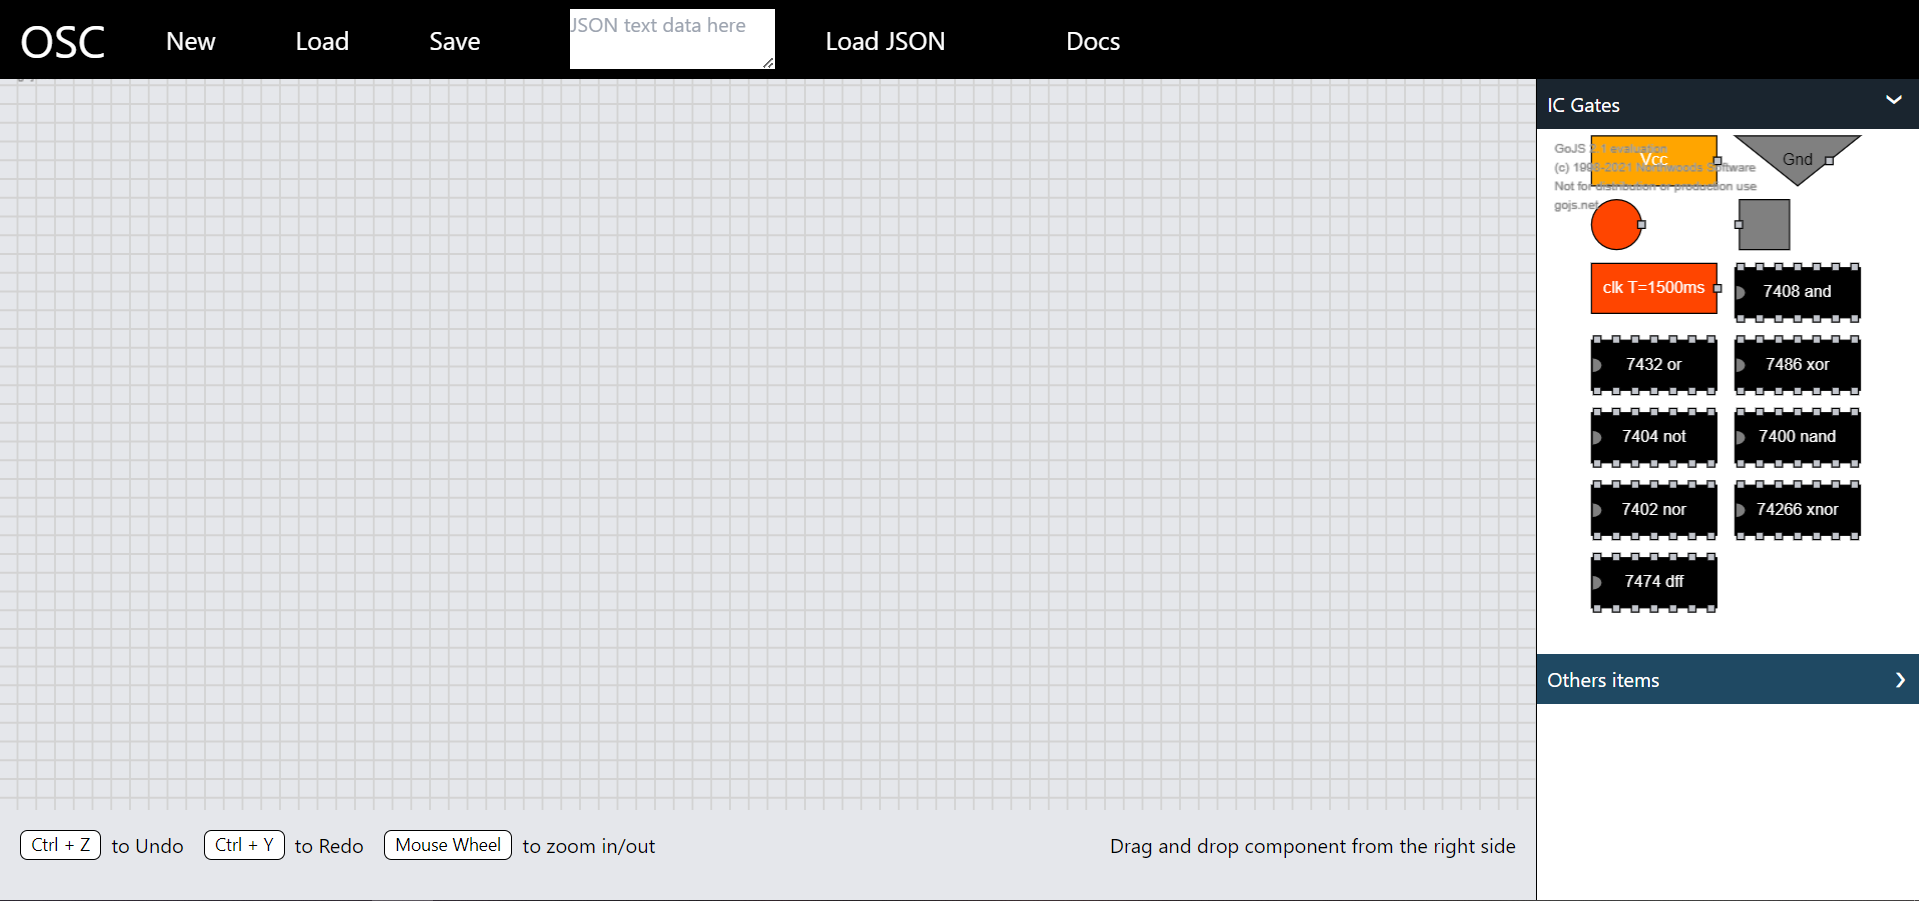
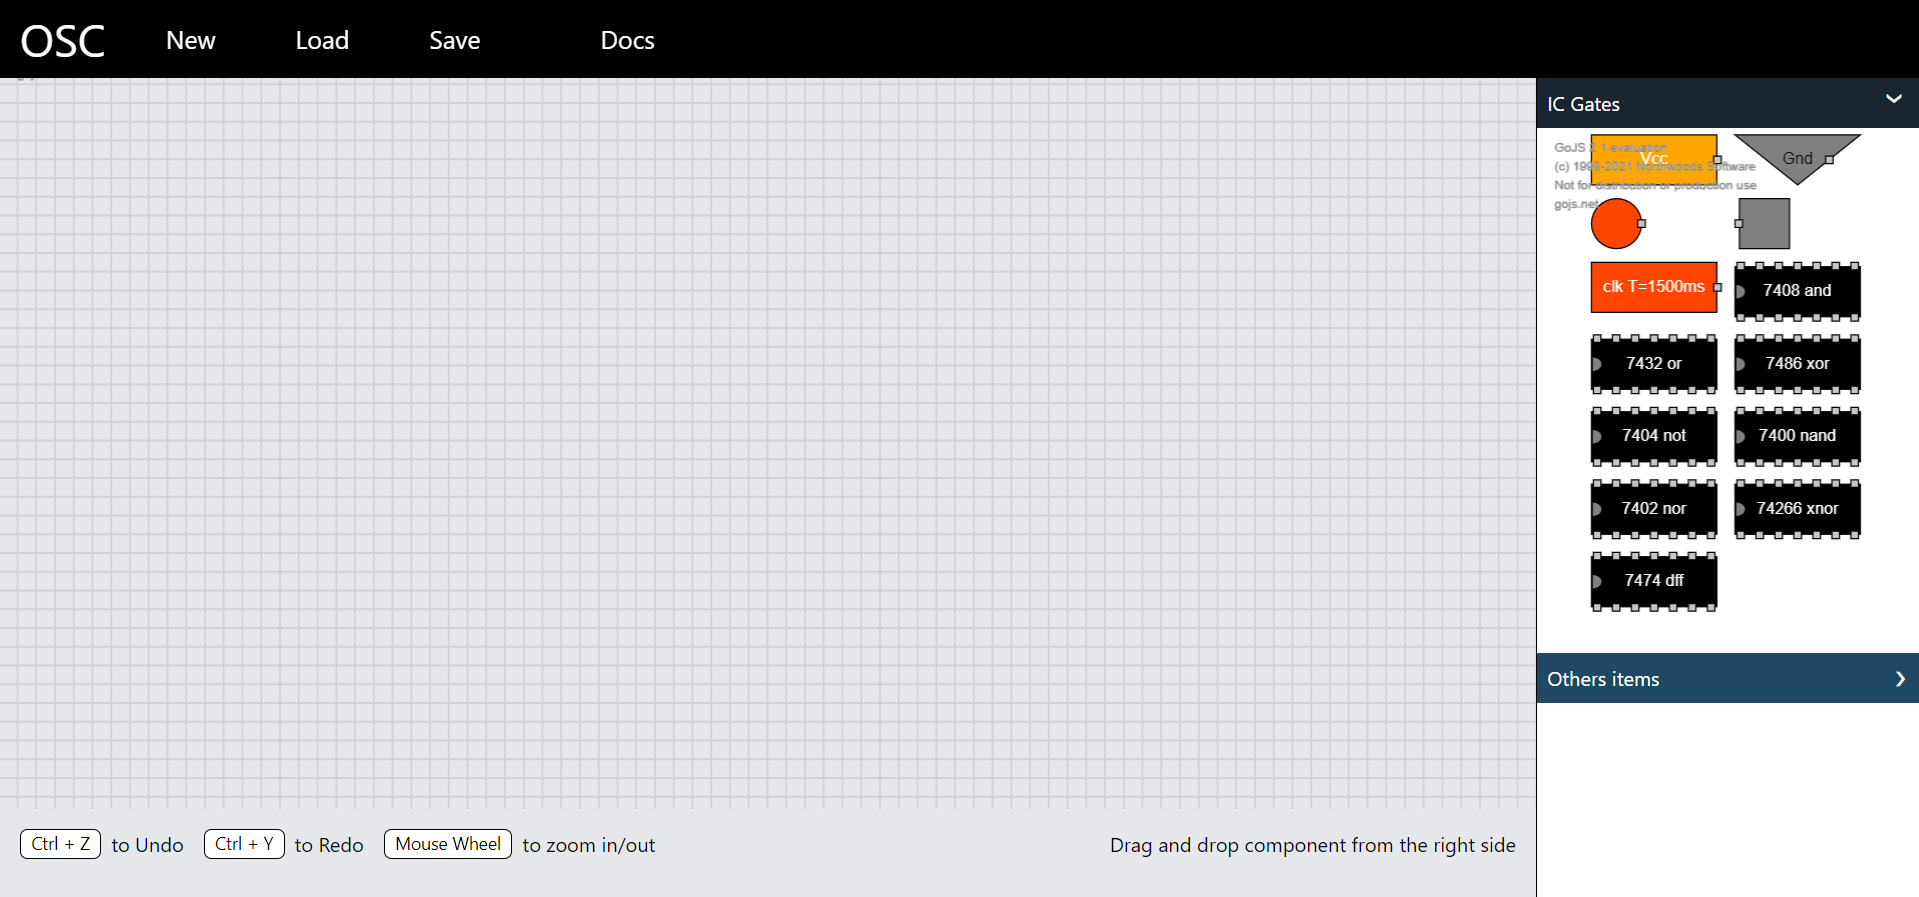
remove load json text

diff --git a/frontend/src/documents.tsx b/frontend/src/documents.tsx
@@ -9,6 +9,8 @@ function Docs() {
   const comp = useRef<any>(null);
   let history = useHistory();
 
+  const headerTopic = "px-4 py-2 cursor-pointer transition duration-300 hover:bg-gray-200"
+
   useEffect(() => {
     document.title = "OSC Documentation"
   }, []);
@@ -34,11 +36,11 @@ function Docs() {
       <div ref={intro} className="relative flex mx-auto" style={{maxWidth: 1215}}>
 
         <div className="fixed w-1/5 mt-24">
-          <h1 className="text-2xl">Documentation</h1>
-          <h1 className="cursor-pointer my-4" onClick={() => scrollToRef(intro)}>Introduction</h1>
-          <h1 className="cursor-pointer my-4" onClick={() => scrollToRef(inter)}>Interface</h1>
-          <h1 className="cursor-pointer my-4" onClick={() => scrollToRef(ctrl)}>Basic Control</h1>
-          <h1 className="cursor-pointer my-4" onClick={() => scrollToRef(comp)}>Components</h1>
+          <h1 className="text-2xl mb-4">Documentation</h1>
+          <h1 className={headerTopic} onClick={() => scrollToRef(intro)}>Introduction</h1>
+          <h1 className={headerTopic} onClick={() => scrollToRef(inter)}>Interface</h1>
+          <h1 className={headerTopic} onClick={() => scrollToRef(ctrl)}>Basic Control</h1>
+          <h1 className={headerTopic} onClick={() => scrollToRef(comp)}>Components</h1>
         </div>
           
         <div className="absolute right-0 w-4/5 pl-16 mt-24">

diff --git a/frontend/src/main.tsx b/frontend/src/main.tsx
@@ -103,6 +103,7 @@ function initDiagram() {
     $(go.GraphLinksModel,
       { linkFromPortIdProperty: "fromPort",  // required information:
         linkToPortIdProperty: "toPort",      // identifies data property names
+        linkKeyProperty: 'key',
     });
     
   // node template helpers (Tooltip when hover with mouse)
@@ -1432,15 +1433,7 @@ function Main() {
           <input type="file" name="load-file" id="load-file" onChange={(e) => loadFile(e)}/>
         </button>
         <button onClick={(e) => setSystemValue(3)} className={Button}>Save</button>
-        <div className="mx-8 flex">
-          <textarea 
-            placeholder="JSON text data here" 
-            className="m-2 focus:outline-none" 
-            onChange={(e) => handleJsonText(e.target.value)}>
-          </textarea>
-          <button onClick={(e) => setSystemValue(2)} className={Button}>Load JSON</button>
-        </div>
-        <a href='./documents' target='_blank' rel='noopener noreferrer'>
+        <a className='ml-8' href='./documents' target='_blank' rel='noopener noreferrer'>
           <button className={Button}>Docs</button>
         </a>
       </div>
